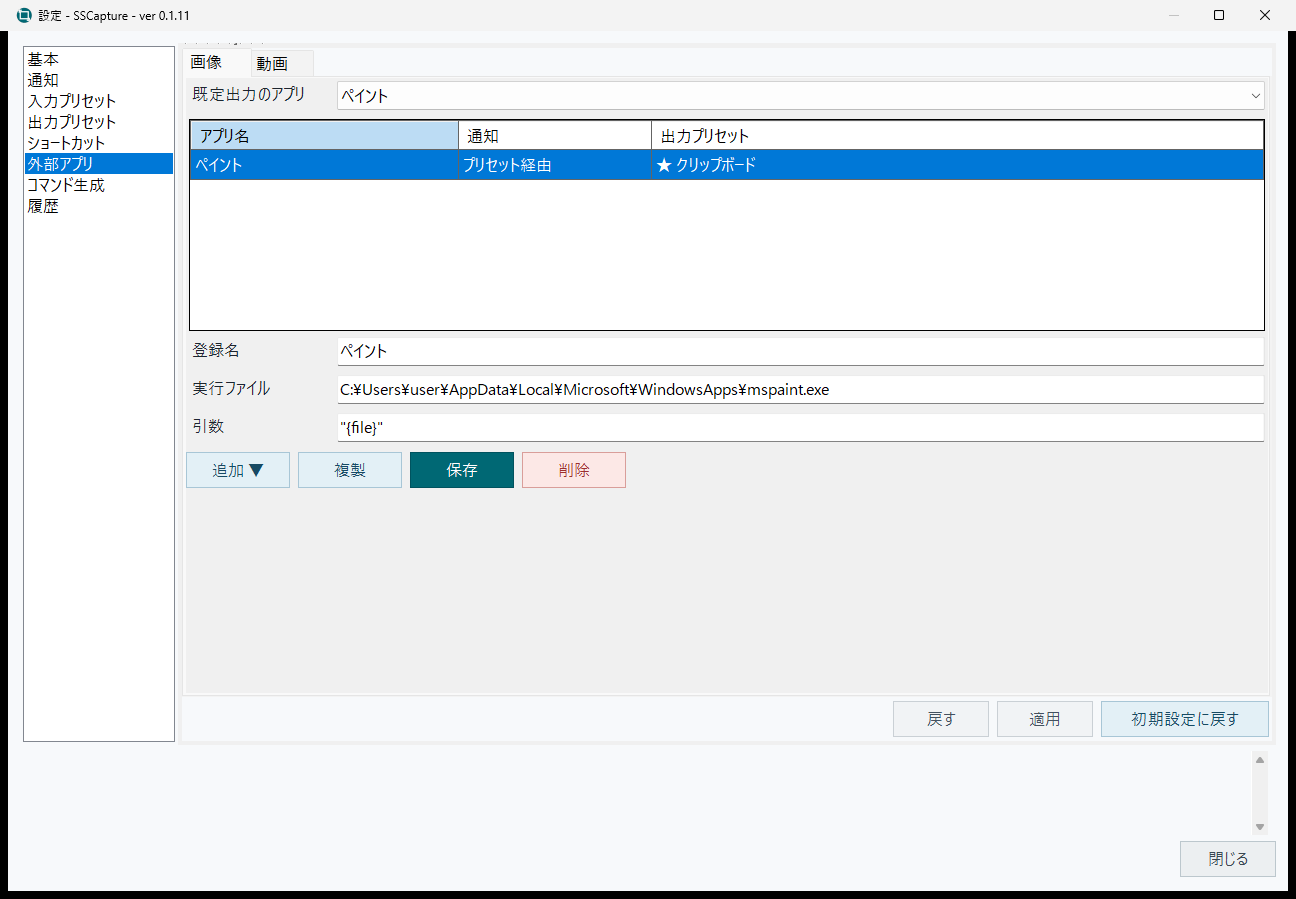
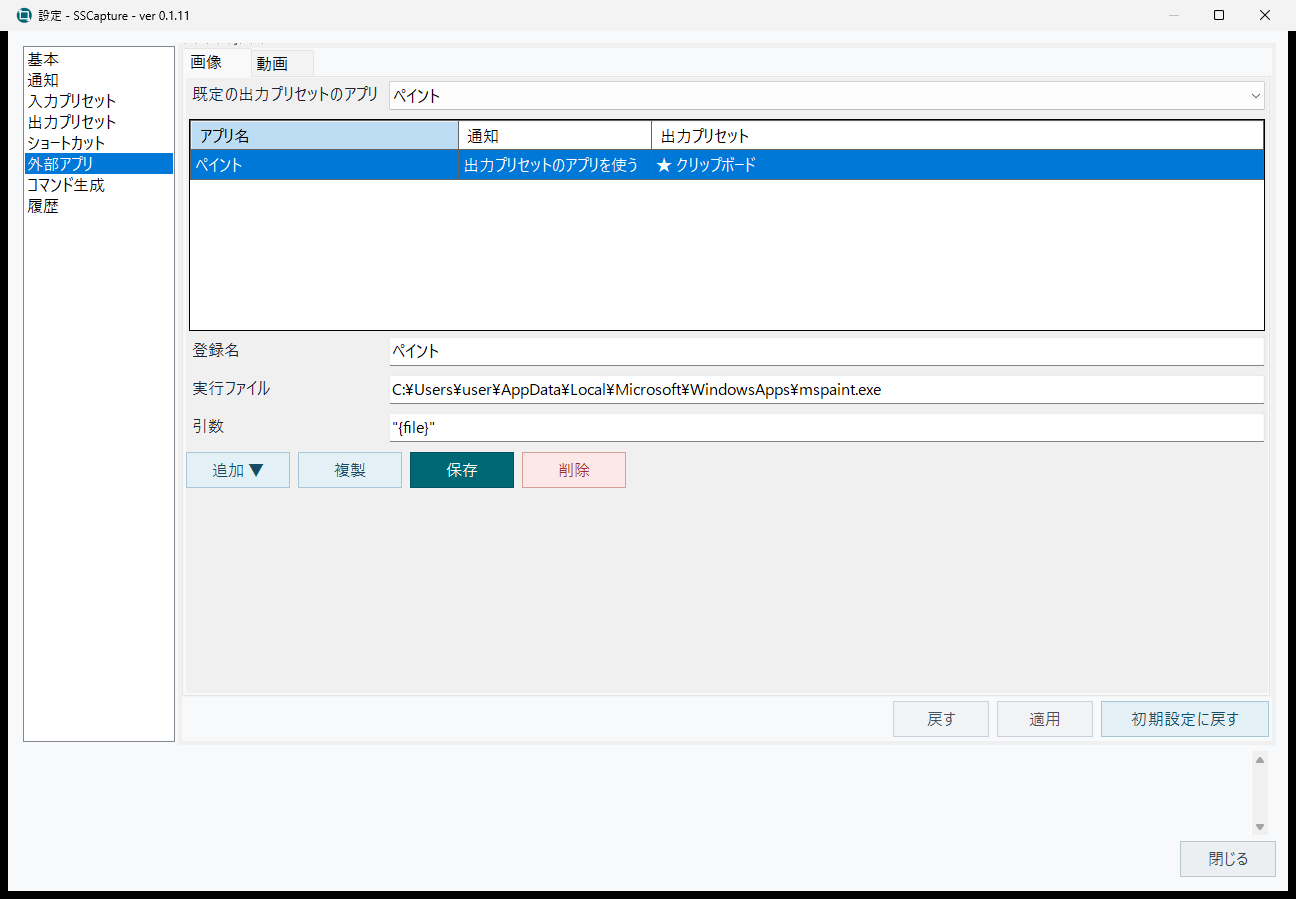
分かりにくい画面の文言を利用者の言葉に言い換える
- 撮影中メニューの「一時入力／出力カスタマイズ」を「今回だけ入力／出力を変更」にし、
  WGC・UIA・DIBなどの技術名をメニュー・説明・エラーから除く
- 外部アプリの「既定出力のアプリ」「プリセット経由／直接指定」、
  ショートカットの「デスクトップの選択」「上下／左右に変更」、自動起動の説明を言い換える
- OCRエンジンの項目名を短くし、外部アプリの項目名の列幅を内容に合わせる
- 文言を検査するテスト、使い方・設定画面一覧の文書と画像を更新する

diff --git a/src/SSCapture/UI/SettingsHelp.cs b/src/SSCapture/UI/SettingsHelp.cs
@@ -8,8 +8,8 @@ internal static class SettingsHelp
     private static readonly IReadOnlyDictionary<string, string> Descriptions = new Dictionary<string, string>
     {
         ["ResetSettingsPage"] = "表示中のページの設定を初期値に戻します。ショートカットは選択中のタブだけが対象です。入力・出力プリセットは確認後に自動保存し、自作登録を保持します。",
-        ["StartupSettings"] = "Windowsサインイン時の自動起動です。初期設定はOFFです。KotorinToysと同じ所有予約を参照します。変更は「自動起動を適用」で確定します。設定全体の保存やビルドでは予約を変更しません。",
-        ["StartWithWindows"] = "ONにして「自動起動を適用」を押すと、次回のWindowsサインイン時から設定画面を表示せず起動します。正式インストール版だけが登録できます。本体経由の予約はKotorinToysで変更してください。",
+        ["StartupSettings"] = "Windowsサインイン時の自動起動です。初期設定はOFFです。KotorinToysと同じ自動起動の登録を使います。変更は「自動起動を適用」で確定します。設定全体の保存やビルドでは登録を変更しません。",
+        ["StartWithWindows"] = "ONにして「自動起動を適用」を押すと、次回のWindowsサインイン時から設定画面を表示せず起動します。正式インストール版だけが登録できます。KotorinToysから登録した自動起動は、KotorinToysで変更してください。",
         ["ApplyStartup"] = "自動起動のON/OFFだけを適用します。他の設定編集中の値は保存しません。OFFにしても現在のアプリは終了しません。",
         ["ExportSettings"] = "保存済みの設定とプリセットを新規のJSONファイルに書き出します。外部アプリの実行先や保存先も含まれます。",
         ["ImportSettings"] = "書き出したJSONや旧版の設定を確認します。「適用」で現在の設定を置き換えます。",
@@ -62,7 +62,7 @@ internal static class SettingsHelp
         ["CapturePresetEditor"] = "出力先・白い余白・減色・外部アプリ・保存先・命名・OCR・撮影情報の組合せを登録し、変更確定時に自動保存します。撮影中の適用や個別変更は今回だけです。",
         ["FileNamePattern"] = "保存ファイルや受け渡しキャッシュの名前を組み立てます。{yyyymmdd}は年月日、{hhmmss}は時分秒、{ocr}は画像から選んだ文字列、{region}は範囲名です。{#}は連番、{##}は2桁の連番です。例: {yyyymmdd}_{hhmmss}_{##}.png。録画は.mp4で保存します。",
         ["OcrSeparator"] = "OCRで選んだ複数の文字列の間に入れる文字です。例: _ を指定すると、文字列をアンダースコアでつなぎます。ファイル名に使用できない文字は指定できません。",
-        ["OneOcrDirectory"] = "OneOCRのエンジンとモデルがあるフォルダの完全パスです。空欄のときはSnipping Toolから自動検出します。OCRを使う命名パターンで必要になります。",
+        ["OneOcrDirectory"] = "OneOCRのエンジンとモデルがあるフォルダの完全パスです。すべての出力プリセットで共通です。空欄のときはSnipping Toolから自動検出します。OCRを使う命名パターンで必要になります。",
         ["FixedWidth"] = "固定サイズモードの横幅です。単位は画像の物理ピクセルで、1～32768pxを指定できます。幅と高さの積は1億画素以内にしてください。",
         ["FixedHeight"] = "固定サイズモードの高さです。単位は画像の物理ピクセルで、1～32768pxを指定できます。幅と高さの積は1億画素以内にしてください。",
         ["FixedCaptureAnchor"] = "固定サイズの枠でポインタに合わせる隅または中心です。画面外にはみ出した枠は確定できません。",
@@ -141,7 +141,7 @@ internal static class SettingsHelp
         if (name == "InputFixedCoordinates") return "ONは登録した位置へ固定枠を表示します。OFFは撮影モードに従い位置や範囲を選びます。再撮影キーはONなら即時撮影、OFFなら選択開始です。";
         if (name.Contains("InputPreset", StringComparison.Ordinal)) return "入力プリセットを追加・複製し、通常撮影の既定を選べます。録画音声も含めて変更確定時に自動保存します。暗転・モニター制限は基本設定です。";
         if (name is "AddCapturePreset" or "DeleteCapturePreset" or "DefaultCapturePreset" or "CapturePresetName") return "出力プリセットを追加・削除し、既定を選びます。変更確定時に自動保存します。追加では新規と直前の出力設定を選べます。";
-        if (name is "MetadataMode" or "PresetMetadataMode") return "静止画をファイルに保存する場合の撮影情報です。記録しない・PNG内XMP・別JSON・両方から選択します。UI名・アプリのパス・タイトル等を含むため共有時には注意してください。";
+        if (name is "MetadataMode" or "PresetMetadataMode") return "静止画をファイルに保存する場合の撮影情報です。記録しない・PNG内XMP・別JSON・両方から選択します。画面部品の名前・アプリのパス・ウィンドウ名などを含むため、共有するときは注意してください。";
         if (name.EndsWith("EditorArguments", StringComparison.Ordinal)) return Services.EditorArguments.Help;
         if (name.Contains("Editor", StringComparison.Ordinal) || name.Contains("SelectedEditor", StringComparison.Ordinal))
             return "画像用・動画用の外部アプリを複数登録し、既定を1つ選びます。追加メニューから入力例を選べます。この画面の「保存」で登録を確定します。参照中のアプリは削除できません。";

diff --git a/src/SSCapture/Services/CaptureContextWorker.cs b/src/SSCapture/Services/CaptureContextWorker.cs
@@ -38,7 +38,7 @@ internal static partial class CaptureContextWorker
                             Console.WriteLine(response);
                             continue;
                         }
-                        PixelPoint point = request.Point ?? throw new InvalidDataException("UIA座標がありません。");
+                        PixelPoint point = request.Point ?? throw new InvalidDataException("画面部品の情報を取得する位置がありません。");
                         DateTimeOffset observed = DateTimeOffset.Now;
                         nint before = GetForegroundWindow(); GetWindowThreadProcessId(before, out uint beforePid);
                         ElementMetadata focused = ReadElement(() => automation.Focused());
@@ -189,9 +189,9 @@ internal sealed class CaptureContextClient(Func<ProcessStartInfo>? startFactory 
                     StandardInputEncoding = new UTF8Encoding(false), StandardOutputEncoding = new UTF8Encoding(false) };
                 if (!appHost) start.ArgumentList.Add(typeof(CaptureContextWorker).Assembly.Location);
                 start.ArgumentList.Add("--capture-context-worker");
-                process = Process.Start(startFactory?.Invoke() ?? start) ?? throw new IOException("UIA workerを開始できません。");
+                process = Process.Start(startFactory?.Invoke() ?? start) ?? throw new IOException("画面部品の情報を取得する処理を開始できません。");
                 _ = process.StandardError.BaseStream.CopyToAsync(Stream.Null);
-                if (await ReadBoundedAsync(process.StandardOutput, 64, timeout.Token) != "ready") throw new IOException("UIA workerが応答しません。");
+                if (await ReadBoundedAsync(process.StandardOutput, 64, timeout.Token) != "ready") throw new IOException("画面部品の情報を取得する処理が応答しません。");
             }
             await process.StandardInput.WriteLineAsync(JsonSerializer.Serialize(request).AsMemory(), timeout.Token);
             await process.StandardInput.FlushAsync(timeout.Token);
@@ -208,11 +208,11 @@ internal sealed class CaptureContextClient(Func<ProcessStartInfo>? startFactory 
         var result = new StringBuilder(); var buffer = new char[1];
         while (result.Length <= limit)
         {
-            if (await reader.ReadAsync(buffer.AsMemory(), token) == 0) throw new IOException("UIA workerが終了しました。");
+            if (await reader.ReadAsync(buffer.AsMemory(), token) == 0) throw new IOException("画面部品の情報を取得する処理が途中で終了しました。");
             if (buffer[0] == '\n') return result.ToString().TrimEnd('\r');
             result.Append(buffer[0]);
         }
-        throw new IOException("UIA workerの応答が上限を超えました。");
+        throw new IOException("画面部品の情報が大きすぎるため、取得を中止しました。");
     }
     private void DisposeProcess()
     {

diff --git a/src/SSCapture/UI/CapturePresetEditor.cs b/src/SSCapture/UI/CapturePresetEditor.cs
@@ -111,7 +111,7 @@ internal sealed class CapturePresetEditor : UserControl
         openFolder = Toggle("保存フォルダを開く", "OpenFolderAfterSave"); Add(naming, "保存後", openFolder, 3);
         var help = new Label { Text = "{yyyymmdd} 年月日 / {hhmmss} 時分秒 / {ext} png・mp4\n{ocr} OCR文字列 / {region} 範囲名 / {#}・{##} 連番", Dock = DockStyle.Fill }; naming.Controls.Add(help, 0, 6); naming.SetColumnSpan(help, 2); naming.SetRowSpan(help, 2);
         metadataMode = new ComboBox { Name = "MetadataMode", DropDownStyle = ComboBoxStyle.DropDownList }; metadataMode.Items.AddRange(["記録しない", "PNG内XMP", "別JSON", "PNG内XMPと別JSON"]); Add(metadata, "保存形式", metadataMode, 0);
-        var warning = new Label { Dock = DockStyle.Fill, Text = "静止画のファイル保存時に座標・UIA・exe/class/titleを記録します。\n共有時はウィンドウ名やパスにご注意ください。\nパスワードの名前・値の本文・UI全体のツリーは採取しません。\n画像とUIAは同時刻ではなく、未取得時は理由を記録します。" }; metadata.Controls.Add(warning, 0, 1); metadata.SetColumnSpan(warning, 2); metadata.SetRowSpan(warning, 4);
+        var warning = new Label { Dock = DockStyle.Fill, Text = "静止画をファイルに保存するときに、ポインタの位置、指していた画面部品の名前、アプリの実行ファイル名・ウィンドウ名を記録します。\n画像を共有する前に、ウィンドウ名やパスが含まれていないか確認してください。\nパスワード欄の名前、入力欄の値、画面全体の部品の一覧は記録しません。\n部品の情報は撮影と同じ瞬間のものとは限りません。取得できなかったときは理由を記録します。" }; metadata.Controls.Add(warning, 0, 1); metadata.SetColumnSpan(warning, 2); metadata.SetRowSpan(warning, 4);
         var add = SettingsForm.MakeButton("追加 ▼", "AddCapturePreset");
         var choices = new ContextMenuStrip { Name = "AddCapturePresetMenu" };
         add.ContextMenuStrip = choices;
@@ -178,7 +178,7 @@ internal sealed class CapturePresetEditor : UserControl
     private AppSettings CurrentSettings() => IsHandleCreated ? readSettings() : initialSettings;
     internal FlowLayoutPanel AddSaveTools(Control ocrDirectory, Action<string> openDirectory)
     {
-        Add(naming, "OCRエンジン（共通）", ocrDirectory, 4);
+        Add(naming, "OCRエンジンの場所", ocrDirectory, 4);
         var actions = new FlowLayoutPanel { Dock = DockStyle.Fill, Margin = new Padding(3, 0, 0, 0), WrapContents = false };
         naming.RowStyles[5].Height = SettingsEditorActions.Height;
         naming.Controls.Add(actions, 1, 5);

diff --git a/src/SSCapture/UI/SettingsForm.cs b/src/SSCapture/UI/SettingsForm.cs
@@ -104,12 +104,12 @@ internal sealed partial class SettingsForm : Form
         fileNamePattern = Field(naming, "パターン", "FileNamePattern", settings.FileNamePattern, 0);
         ocrSeparator = Field(naming, "OCR区切り", "OcrSeparator", settings.OcrSeparator, 1);
         oneOcrDirectory = Field(naming, "OneOCRフォルダ", "OneOcrDirectory", settings.OneOcrDirectory, 2);
-        oneOcrDirectory.PlaceholderText = "空欄でSnipping Toolから自動検出";
+        oneOcrDirectory.PlaceholderText = "全プリセット共通。空欄でSnipping Toolから自動検出";
         var metadataPage = Page(tabs, "撮影情報");
         metadataMode = Combo(metadataPage, "保存形式", "MetadataMode", 0);
         metadataMode.Items.AddRange(["記録しない", "PNG内XMP", "別JSON", "PNG内XMPと別JSON"]);
         metadataMode.SelectedIndex = (int)settings.MetadataMode;
-        var metadataHelp = new Label { Dock = DockStyle.Fill, Text = "静止画のファイル保存時だけ、位置・UIA・exe/class/titleを記録します。\nウィンドウ名やアプリのパスを含むため、画像を共有する前にご確認ください。\n値の本文・パスワードの名前・UI全体のツリーは採取しません。\n画像とUIAは同時刻ではありません。未取得時は理由を記録します。" };
+        var metadataHelp = new Label { Dock = DockStyle.Fill, Text = "静止画をファイルに保存するときに、ポインタの位置、指していた画面部品の名前、アプリの実行ファイル名・ウィンドウ名を記録します。\n画像を共有する前に、ウィンドウ名やパスが含まれていないか確認してください。\nパスワード欄の名前、入力欄の値、画面全体の部品の一覧は記録しません。\n部品の情報は撮影と同じ瞬間のものとは限りません。取得できなかったときは理由を記録します。" };
         metadataPage.Controls.Add(metadataHelp, 0, 1); metadataPage.SetColumnSpan(metadataHelp, 2); metadataPage.SetRowSpan(metadataHelp, 4);
         var namingHelp = new Label { Dock = DockStyle.Fill, Text = "{yyyymmdd} 年月日　{hhmmss} 時分秒　{ocr} 文字列\n{region} 範囲名　{#} 1,2…　{##} 01,02…　動画は.mp4" };
         naming.Controls.Add(namingHelp, 0, 3); naming.SetColumnSpan(namingHelp, 2); naming.SetRowSpan(namingHelp, 2);

diff --git a/src/SSCapture/UI/ExternalApplicationsEditor.cs b/src/SSCapture/UI/ExternalApplicationsEditor.cs
@@ -48,12 +48,12 @@ internal sealed class ExternalApplicationsEditor : UserControl
             applications.Add(legacy); selectedId = legacy.Id;
         }
         var root = new TableLayoutPanel { Dock = DockStyle.Fill, ColumnCount = 2, RowCount = 7 };
-        root.ColumnStyles.Add(new ColumnStyle(SizeType.Absolute, 148)); root.ColumnStyles.Add(new ColumnStyle(SizeType.Percent, 100));
+        root.ColumnStyles.Add(new ColumnStyle(SizeType.AutoSize)); root.ColumnStyles.Add(new ColumnStyle(SizeType.Percent, 100));
         for (int row = 0; row < 5; row++) root.RowStyles.Add(new RowStyle(SizeType.Absolute, 38));
         root.RowStyles.Add(new RowStyle(SizeType.Absolute, SettingsEditorActions.Height)); root.RowStyles.Add(new RowStyle(SizeType.Percent, 100));
         Controls.Add(root);
         selected = new ComboBox { Name = prefix + "SelectedEditor", DropDownStyle = ComboBoxStyle.DropDownList };
-        Add("既定出力のアプリ", selected, 0);
+        Add("既定の出力プリセットのアプリ", selected, 0);
         selected.SelectedIndexChanged += (_, _) =>
         {
             if (refreshing) return;
@@ -198,8 +198,8 @@ internal sealed class ExternalApplicationsEditor : UserControl
         {
             var app = (ExternalApplication)row.Tag!;
             var linked = presets.Where(preset => EditorId(preset) == app.Id).ToArray();
-            row.Cells[1].Value = app.Id == notificationId ? "直接指定"
-                : !notificationHasDirectApp && linked.Length > 0 ? "プリセット経由" : "—";
+            row.Cells[1].Value = app.Id == notificationId ? "通知用に指定"
+                : !notificationHasDirectApp && linked.Length > 0 ? "出力プリセットのアプリを使う" : "—";
             row.Cells[2].Value = linked.Length == 0 ? "—" : string.Join("、", linked.Select(DisplayName));
             row.Cells[2].ToolTipText = string.Join("\n", linked.Select(preset => DisplayName(preset)
                 + (preset.Destination.HasFlag(OutputDestination.ExternalApp) ? "" : "（自動で開く：OFF）")));

diff --git a/tests/SSCapture.Tests/ExternalApplicationTests.cs b/tests/SSCapture.Tests/ExternalApplicationTests.cs
@@ -29,14 +29,14 @@ internal static partial class Program
                 .SequenceEqual(["アプリ名", "通知", "出力プリセット"]), "一覧の列が違う");
             Equal(7, table.Rows.Count);
             Equal(6, table.DisplayedRowCount(false));
-            Equal("プリセット経由", table.Rows[0].Cells[1].Value);
+            Equal("出力プリセットのアプリを使う", table.Rows[0].Cells[1].Value);
             Equal("★ クリップボード、資料用", table.Rows[0].Cells[2].Value);
             Check(table.Rows[0].Cells[2].ToolTipText.Contains("自動で開く：OFF"), "自動起動OFFの説明がない");
             Equal("保存用", table.Rows[1].Cells[2].Value);
             notification = editors[1].Id;
             editor.RefreshUsage();
             Equal("—", table.Rows[0].Cells[1].Value);
-            Equal("直接指定", table.Rows[1].Cells[1].Value);
+            Equal("通知用に指定", table.Rows[1].Cells[1].Value);
             table.CurrentCell = table.Rows[1].Cells[0];
             Equal(editors[1].Name, editor.Controls.Find("ImageEditorName", true).Single().Text);
         });
@@ -116,7 +116,7 @@ internal static partial class Program
             AppSettings? saved = null;
             using var form = new SettingsForm(settings, next => { saved = next; return null; }, _ => { }, () => []);
             var appTable = (DataGridView)form.Controls.Find("ImageEditorList", true).Single();
-            Equal("プリセット経由", appTable.Rows[0].Cells[1].Value);
+            Equal("出力プリセットのアプリを使う", appTable.Rows[0].Cells[1].Value);
             var list = (ListBox)form.Controls.Find("CapturePresetList", true).Single(); list.SelectedIndex = 1;
             string? nonDefaultApp = ((CapturePreset)list.SelectedItem!).ImageEditorId;
             form.Controls.Find("CapturePresetName", true).Single().Text = "別出力を編集中";

diff --git a/src/SSCapture/Capture/CaptureContextMenu.cs b/src/SSCapture/Capture/CaptureContextMenu.cs
@@ -68,12 +68,12 @@ internal sealed class CaptureContextMenu : ContextMenuStrip
         {
             windowSource = Menu("ウィンドウの撮影方式", "WindowCaptureSource", Items);
             visibleWindow = Item("見えている画面を撮影", "VisibleWindowCapture", () => changeWindowSource(false), windowSource.DropDownItems);
-            isolatedWindow = Item("対象ウィンドウだけ撮影（WGC）", "IsolatedWindowCapture", () => changeWindowSource(true), windowSource.DropDownItems);
+            isolatedWindow = Item("対象ウィンドウだけ撮影（重なった窓を除く）", "IsolatedWindowCapture", () => changeWindowSource(true), windowSource.DropDownItems);
             SetWindowSource(mode, false);
         }
         Items.Add(new ToolStripSeparator());
-        var range = Menu("一時入力カスタマイズ", "CaptureRangeGroup", Items);
-        var output = Menu("一時出力カスタマイズ", "CaptureOutputGroup", Items);
+        var range = Menu("今回だけ入力を変更", "CaptureRangeGroup", Items);
+        var output = Menu("今回だけ出力を変更", "CaptureOutputGroup", Items);
         var operation = Menu("表示・操作", "CaptureOperationGroup", Items);
         if (changeMode is not null)
         {

diff --git a/src/SSCapture/Services/AppSettings.cs b/src/SSCapture/Services/AppSettings.cs
@@ -150,7 +150,7 @@ internal sealed record AppSettings
             (PresetCaptureShortcuts is null || region.Shortcut == "" ? region : region with { Shortcut = "" }).Validate();
         if (PresetSchemaVersion >= 1 && (SavedRegions.Count(p => p.IsDefault) != 1 || CapturePresets.Count(p => p.IsDefault) != 1))
             throw new ArgumentException("入力・出力それぞれ1件の既定プリセットを指定してください。");
-        if (SavedRegions.Any(r => r.Id is LastRegionKeyId or LastRecipeKeyId)) throw new ArgumentException("登録範囲のIDが予約値です。");
+        if (SavedRegions.Any(r => r.Id is LastRegionKeyId or LastRecipeKeyId)) throw new ArgumentException("入力プリセットのIDに、アプリが内部で使うIDは指定できません。");
         if (SavedRegions.Select(r => r.Id).Distinct(StringComparer.Ordinal).Count() != SavedRegions.Length)
             throw new ArgumentException("登録範囲のIDが重複しています。");
         if (FixedWidth is < 1 or > 32768 || FixedHeight is < 1 or > 32768 || (long)FixedWidth * FixedHeight > 100_000_000)

diff --git a/src/SSCapture/Capture/CaptureKeyMap.cs b/src/SSCapture/Capture/CaptureKeyMap.cs
@@ -53,8 +53,8 @@ internal sealed record CaptureKeyMap(
 
     internal static string Describe(CaptureKeyAction action) => action switch
     {
-        CaptureKeyAction.LockWidth => "上下に変更",
-        CaptureKeyAction.LockHeight => "左右に変更",
+        CaptureKeyAction.LockWidth => "高さだけ変更",
+        CaptureKeyAction.LockHeight => "幅だけ変更",
         CaptureKeyAction.Snap => "ウィンドウスナップ",
         CaptureKeyAction.Grid => "一時グリッドスナップ",
         CaptureKeyAction.CrossMonitor => "別モニターへの移動を許可",
@@ -64,7 +64,7 @@ internal sealed record CaptureKeyMap(
         CaptureKeyAction.FromCenter => "起点を中心にする",
         CaptureKeyAction.FromCenterWithAspectRatio => "中心基準＋比率固定",
         CaptureKeyAction.SelectControl => "コントロールを選択",
-        CaptureKeyAction.SelectDesktop => "デスクトップの選択",
+        CaptureKeyAction.SelectDesktop => "モニター全体を選択",
         _ => "なし"
     };
 

diff --git a/tests/SSCapture.Tests/CaptureMenuEditingTests.cs b/tests/SSCapture.Tests/CaptureMenuEditingTests.cs
@@ -118,8 +118,8 @@ internal static partial class Program
                 var menu = session.SelectionMenu;
                 Check(!menu.Items.OfType<ToolStripControlHost>().Any() && menu.AllCommands.All(item => !item.DropDownItems.OfType<ToolStripControlHost>().Any()), "入力ホストがある");
                 Check(!menu.AllCommands.Any(item => item.Name is "FixedSizeMenu" or "CapturePrecisionMenu" or "OutputDetailsMenu"), "旧入力フォームの入口が残る");
-                Equal("一時入力カスタマイズ", menu.Command("CaptureRangeGroup").Text);
-                Equal("一時出力カスタマイズ", menu.Command("CaptureOutputGroup").Text);
+                Equal("今回だけ入力を変更", menu.Command("CaptureRangeGroup").Text);
+                Equal("今回だけ出力を変更", menu.Command("CaptureOutputGroup").Text);
             }
             finally { session.Cancel(); }
         });

diff --git a/tests/SSCapture.Tests/UiTests.cs b/tests/SSCapture.Tests/UiTests.cs
@@ -365,7 +365,7 @@ internal static partial class Program
             Equal("別モニターへの移動を許可", Choice("CaptureKeys8").Text);
             Check(!Choice("CaptureKeys9").Items.Cast<object>().Any(item => item.ToString() == "ウィンドウ撮影に切り替え"),
                 "ドラッグ中にウィンドウ撮影の選択肢がある");
-            Check(!Choice("CaptureBeforeKeys9").Items.Cast<object>().Any(item => item.ToString() is "上下に変更" or "左右に変更"),
+            Check(!Choice("CaptureBeforeKeys9").Items.Cast<object>().Any(item => item.ToString() is "高さだけ変更" or "幅だけ変更"),
                 "1点目にドラッグの寸法固定がある");
             var beforeMirror = Choice("CaptureBeforeKeys5Mirror");
             var beforePrimary = Choice("CaptureBeforeKeys5");

diff --git a/src/SSCapture/Capture/CaptureDirect3D.cs b/src/SSCapture/Capture/CaptureDirect3D.cs
@@ -92,7 +92,7 @@ internal sealed unsafe class CaptureDirect3D : IDisposable
             var getDescription = (delegate* unmanaged[Stdcall]<nint, TextureDescription*, void>)(*(nint**)texture)[10];
             getDescription(texture, &description);
             if (description.Format != 87 || description.Width < width || description.Height < height)
-                throw new InvalidOperationException("WGCフレームの形式またはサイズが取得対象と一致しません。");
+                throw new InvalidOperationException("ウィンドウの画像の形式またはサイズが取得対象と一致しません。");
             CreateStaging(description, out staging);
             var copy = (delegate* unmanaged[Stdcall]<nint, nint, nint, void>)(*(nint**)context)[47];
             copy(context, staging, texture);
